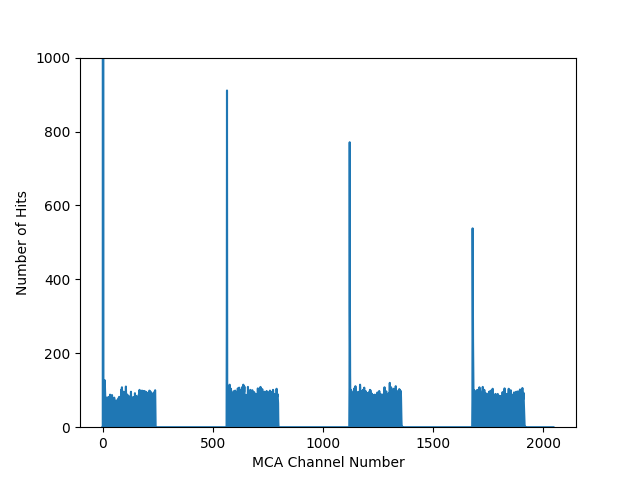
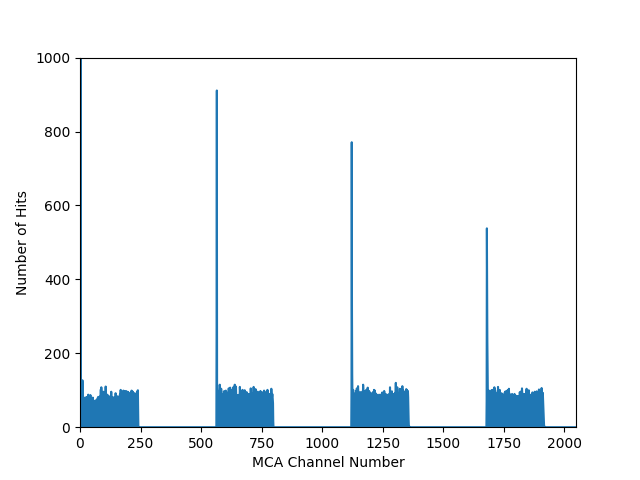
updating Run2 time calibration plot

diff --git a/muon-lifetime/scripts/timecal.py b/muon-lifetime/scripts/timecal.py
@@ -44,40 +44,3 @@ with open(input_file, newline='') as handle:
         data[1][i] = int(row[0])
         print(i, data[1][i])
         i += 1
-
-'''
-ctr = 0   # count number of period
-i   = lbin
-
-prev_num = 0
-cur_num  = 0
-
-sig_start = -1
-sig_end   = -1
-while(ctr < num_period):
-    #print(ctr, i, cur_num, sig_start, sig_end)
-    cur_num = data[1][i]
-
-    if(prev_num == 0 and cur_num > 0):
-        print("mark ", i)
-        if(sig_start < 0):
-            sig_start = i
-        else:
-            ctr +=1
-    else:
-        pass
-
-    prev_num = cur_num
-    i += 1
-
-sig_end = i-1
-time_per_bin = (period * num_period) / ((sig_end - sig_start) * 1.0)
-
-
-print("The number of full periods in the data : ", num_period)
-print("period                                 : ", period, " us")
-print("the signal starts                      : ", sig_start)
-print("the signal ends                        : ", sig_end)
-print("time per bin                           : ", time_per_bin, " us/bin")
-'''
-

diff --git a/muon-lifetime/scripts/timecal_plot.py b/muon-lifetime/scripts/timecal_plot.py
@@ -1,11 +1,13 @@
+import matplotlib
+matplotlib.use('TkAgg')
 import matplotlib.pyplot as plt
 import csv
 import numpy as np
 import util as u
 
 # data setting
-run_date   = "mar18"
-run_number = 4
+run_date   = "mar7"
+run_number = 2
 
 input_tmp  = "../data/time_cal/time_calibration_{}_run{}.txt"
 output_tmp = "../data/plots/time_cal_{}_run{}.png"
@@ -25,7 +27,6 @@ with open(input_file, newline='') as handle:
     # count the number of low
     for row in reader:
         num_row += 1
-
     handle.seek(0) # rewind the file 
     
     data       = np.zeros((2, num_row))
@@ -46,8 +47,10 @@ plt.xlabel("MCA Channel Number")
 plt.ylabel("Number of Hits")
 
 ax.fill_between(data[0][lbin:], data[1][lbin:], 0)
-ax.set_ylim([0,50])
+ax.set_ylim([0,1000])
+ax.set_xlim([0,2048])
+
 
 print("creating ", output_file)
 plt.savefig(output_file)
-plt.show()
+plt.show(block=True)
